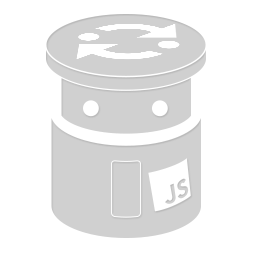
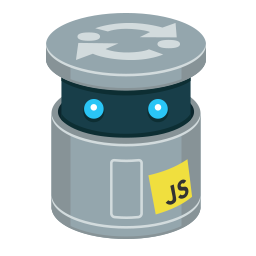
Attempt to give 'bin' more affordance.
Turns out, a significant number of people didn't know it was clickable!

diff --git a/views/index.html b/views/index.html
@@ -21,12 +21,12 @@
     <div class="buttons">
       {{#embed}}
         <span class="menu">
-          <a target="_blank" href="{{code_id_path}}/edit" class="brand button group"><img src="{{static}}/images/favicon.png"> <h1>JS Bin</h1></a><a href="{{code_id_path}}/save" target="_blank" class="button save">Save</a>
+          <a target="_blank" href="{{code_id_path}}/edit" class="brand button group"><img src="{{static}}/images/jsbin_16.png"> <h1>JS Bin</h1></a><a href="{{code_id_path}}/save" target="_blank" class="button save">Save</a>
         </span>
       {{/embed}}
       {{^embed}}
         <div class="menu">
-          <a href="{{root}}{{code_id_path}}/edit#actionmenu" target="_blank" class="brand button button-dropdown group"><img src="{{static}}/images/favicon.png"> <strong>Bins</strong></a>
+          <a href="{{root}}{{code_id_path}}/edit#actionmenu" target="_blank" class="brand button button-dropdown group button-dropdown-arrow"><img src="{{static}}/images/favicon.png"> Bins</a>
           <div class="dropdown" id="actionmenu">
             <div class="dropdownmenu">
               <a id="createnew" data-desc="Create a brand new bin" class="button group" title="Create fresh bin" href="{{root}}">New</a>

diff --git a/public/css/style.css b/public/css/style.css
@@ -2708,8 +2708,9 @@ pre .highlight:last-of-type {
 
 .brand {
   display: inline-block;
-  font-weight: bold;
+  /*font-weight: bold;*/
   padding: 10px;
+  margin-left: 5px;
 }
 
 .brand h1 {
